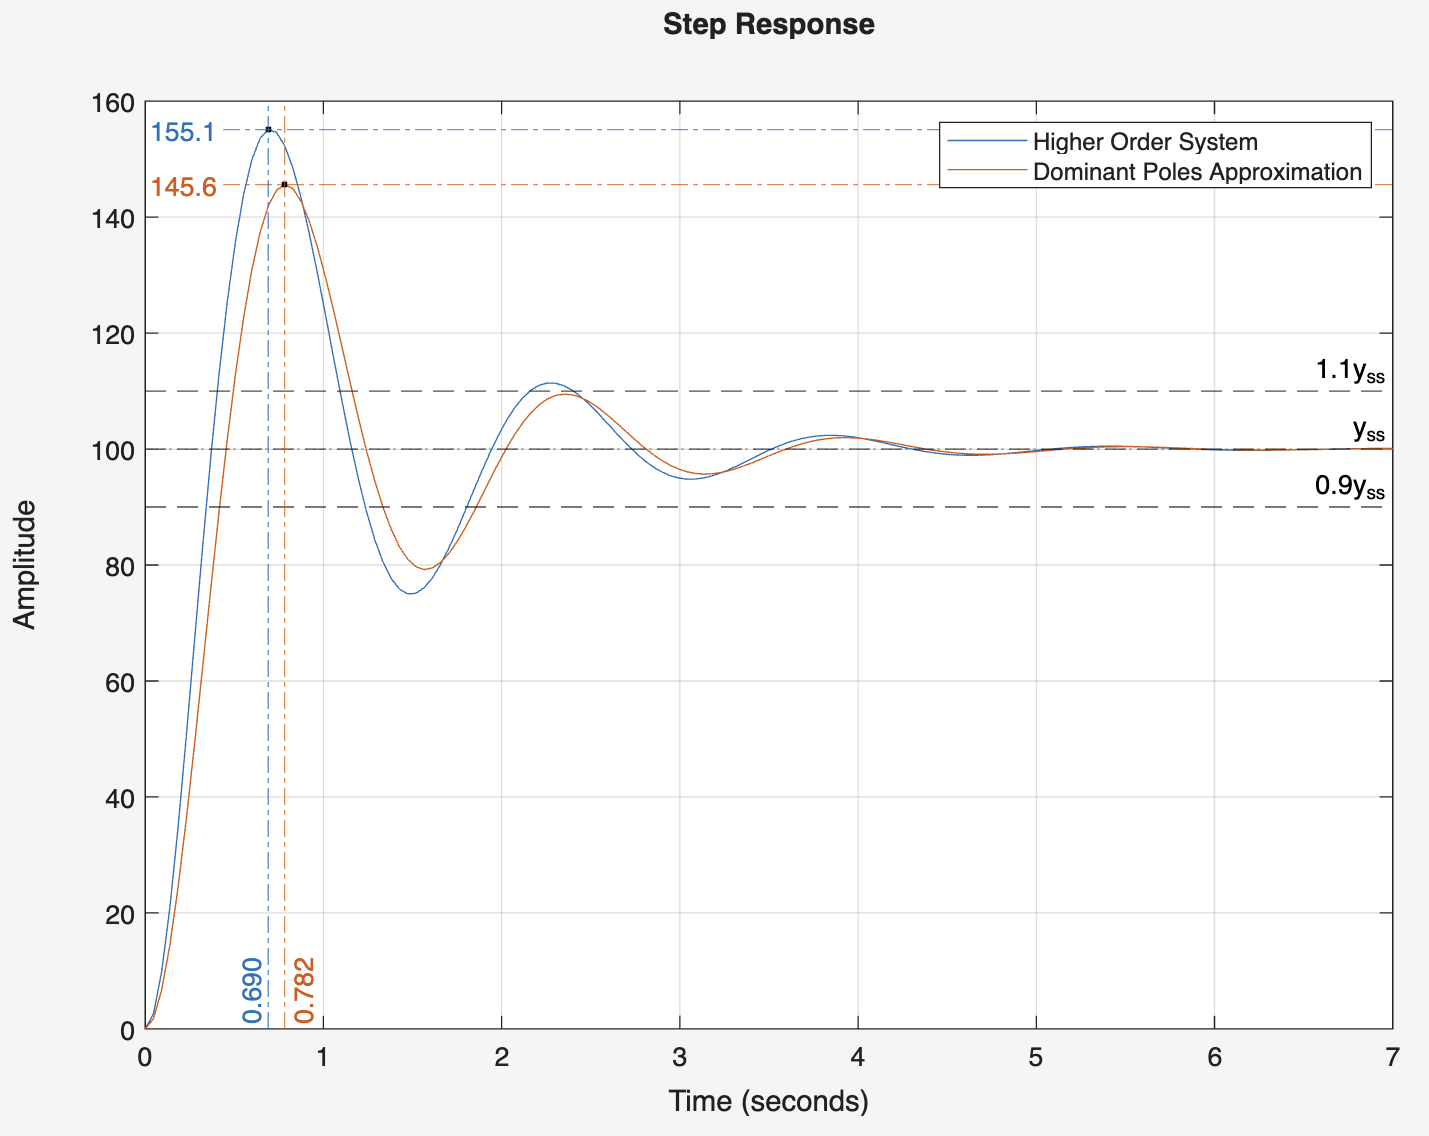
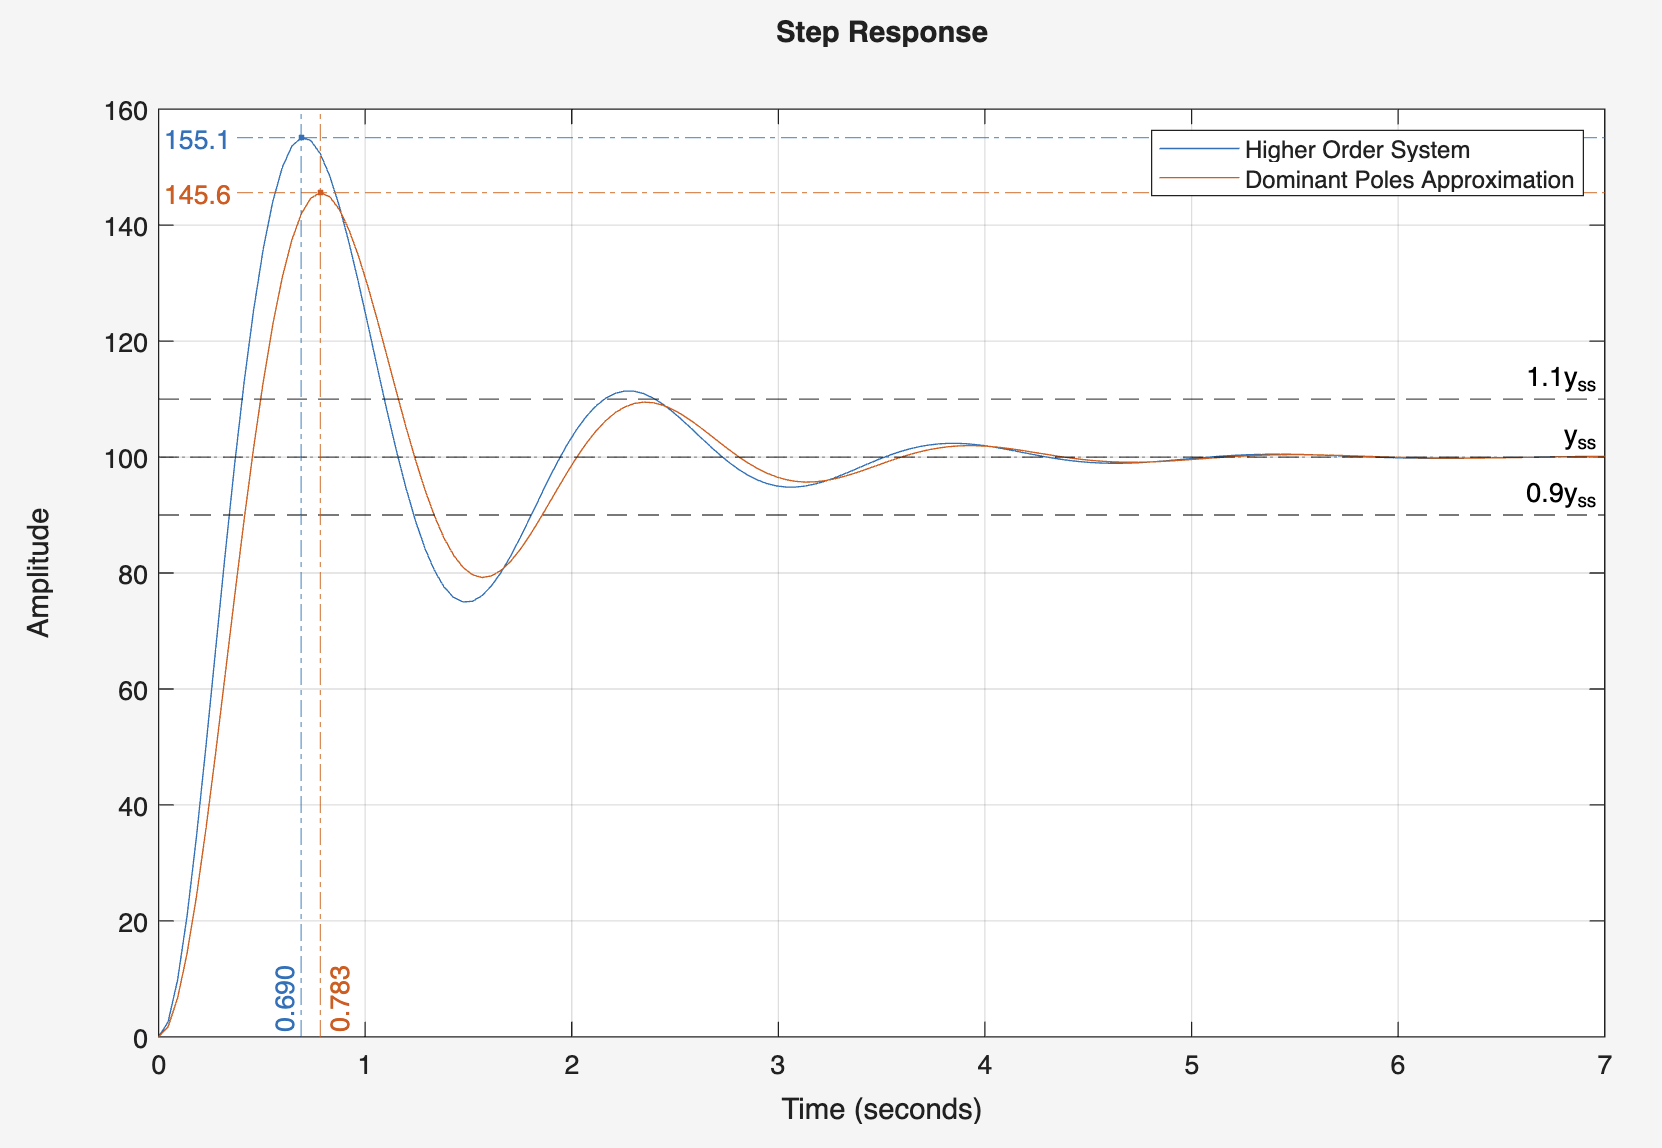
improved colors

diff --git a/test_transfer.m b/test_transfer.m
@@ -11,10 +11,10 @@ syms s
 % Set dominant poles (complex conjugate pair)
 DOMINANT_POLES = (s+1-4j) * (s+1+4j);
 % Add nondominant poles for higher-order transfer function
-HIGHER_ORDER_POLES = (s+7) * (s+5-9j) * (s+5+9j) ...
+HIGHER_ORDER_POLES = (s+10) * (s+7) * (s+5-9j) * (s+5+9j) ...
     * DOMINANT_POLES;
 % Add zeros into higher-order transfer function
-ZEROS = (s+5)*(s+6+8j)*(s+6-8j);
+ZEROS = (s+6+8j) * (s+6-8j) * (s+5);
 
 K = 1/DC_GAIN * (subs(expand(ZEROS), s, 0) / subs(expand(HIGHER_ORDER_POLES), s, 0));
 denominator1 = sym2poly(K * expand(HIGHER_ORDER_POLES));
@@ -42,10 +42,10 @@ function plot_step_response(n1, d1, n2, d2)
     legend('Higher Order System', 'Dominant Poles Approximation');
     hold;
     yss = n1(end) / d1(end);
-    yline([yss*0.9 yss yss*1.1], '--', {'0.9y_{ss}  ', 'y_{ss}  ', '1.1y_{ss}  '}, ...
+    yline([yss*0.9 yss yss*1.1], '--', {'0.9y_{ss}', 'y_{ss}', '1.1y_{ss}'}, ...
         'HandleVisibility', 'off', 'Color', '#000000');
-    [y1, t] = step(sys1);
-    [y2, ~] = step(sys2);
+    [y1, t1] = step(sys1);
+    [y2, t2] = step(sys2);
     [ymax1, tpeak1] = max(y1);
     [ymax2, tpeak2] = max(y2);
     yline(ymax1, 'LineStyle', '-.', 'HandleVisibility', 'off', 'Color', '#1171BE', ...
@@ -54,13 +54,14 @@ function plot_step_response(n1, d1, n2, d2)
     yline(ymax2, 'LineStyle', '-.', 'HandleVisibility', 'off', 'Color', '#DD5400', ...
         'Label', sprintf('%.1f', ymax2), ...
         'LabelHorizontalAlignment', 'left', 'LabelVerticalAlignment', 'middle');
-    xline(t(tpeak1), 'LineStyle', '-.', 'Color', '#1171BE', 'HandleVisibility', 'off', ...
-        'Label', sprintf('  %.3f', t(tpeak1)), ...
+    xline(t1(tpeak1), 'LineStyle', '-.', 'Color', '#1171BE', 'HandleVisibility', 'off', ...
+        'Label', sprintf('%.3f', t1(tpeak1)), ...
         'LabelHorizontalAlignment', 'left', 'LabelVerticalAlignment', 'bottom');
-    xline(t(tpeak2), 'LineStyle', '-.', 'Color', '#DD5400', 'HandleVisibility', 'off', ...
-        'Label', sprintf('  %.3f', t(tpeak2)), ...
+    xline(t2(tpeak2), 'LineStyle', '-.', 'Color', '#DD5400', 'HandleVisibility', 'off', ...
+        'Label', sprintf('%.3f', t2(tpeak2)), ...
         'LabelHorizontalAlignment', 'right', 'LabelVerticalAlignment', 'bottom');
-    plot([t(tpeak1); t(tpeak2)], [ymax1; ymax2], 'k.', 'HandleVisibility', 'off');
+    plot(t1(tpeak1), ymax1, 'Marker', '.', 'Color', '#1171BE', 'HandleVisibility', 'off');
+    plot(t2(tpeak2), ymax2, 'Marker', '.', 'Color', '#DD5400', 'HandleVisibility', 'off');
 end
 
 function plot_poles_zeros(n1, d1, d2)
@@ -84,7 +85,7 @@ function plot_poles_zeros(n1, d1, d2)
     ylim([-max_extent max_extent]);
     % Plot poles and zeros with appropriate markers
     hold on;
-    plot(real(zeros), imag(zeros), 'bo', 'MarkerSize', 8, 'LineWidth', 1);
+    plot(real(zeros), imag(zeros), 'bo', 'MarkerSize', 7, 'LineWidth', 1);
     plot(real(poles), imag(poles), 'bx', 'MarkerSize', 10, 'LineWidth', 1);
     plot(real(dominantpoles), imag(dominantpoles), 'rx', 'MarkerSize', 10, 'LineWidth', 1);
     legend('Poles', 'Zeros', 'Dominant Poles')

diff --git a/group_28.m b/group_28.m
@@ -23,8 +23,8 @@ function plot_step_response(n1, d1, n2, d2)
     yss = n1(end) / d1(end);
     yline([yss*0.9 yss yss*1.1], '--', {'0.9y_{ss}', 'y_{ss}', '1.1y_{ss}'}, ...
         'HandleVisibility', 'off', 'Color', '#000000');
-    [y1, t] = step(sys1);
-    [y2, ~] = step(sys2);
+    [y1, t1] = step(sys1);
+    [y2, t2] = step(sys2);
     [ymax1, tpeak1] = max(y1);
     [ymax2, tpeak2] = max(y2);
     yline(ymax1, 'LineStyle', '-.', 'HandleVisibility', 'off', 'Color', '#1171BE', ...
@@ -33,13 +33,14 @@ function plot_step_response(n1, d1, n2, d2)
     yline(ymax2, 'LineStyle', '-.', 'HandleVisibility', 'off', 'Color', '#DD5400', ...
         'Label', sprintf('%.1f', ymax2), ...
         'LabelHorizontalAlignment', 'left', 'LabelVerticalAlignment', 'middle');
-    xline(t(tpeak1), 'LineStyle', '-.', 'Color', '#1171BE', 'HandleVisibility', 'off', ...
-        'Label', sprintf('%.3f', t(tpeak1)), ...
+    xline(t1(tpeak1), 'LineStyle', '-.', 'Color', '#1171BE', 'HandleVisibility', 'off', ...
+        'Label', sprintf('%.3f', t1(tpeak1)), ...
         'LabelHorizontalAlignment', 'left', 'LabelVerticalAlignment', 'bottom');
-    xline(t(tpeak2), 'LineStyle', '-.', 'Color', '#DD5400', 'HandleVisibility', 'off', ...
-        'Label', sprintf('%.3f', t(tpeak2)), ...
+    xline(t2(tpeak2), 'LineStyle', '-.', 'Color', '#DD5400', 'HandleVisibility', 'off', ...
+        'Label', sprintf('%.3f', t2(tpeak2)), ...
         'LabelHorizontalAlignment', 'right', 'LabelVerticalAlignment', 'bottom');
-    plot([t(tpeak1); t(tpeak2)], [ymax1; ymax2], 'k.', 'HandleVisibility', 'off');
+    plot(t1(tpeak1), ymax1, 'Marker', '.', 'Color', '#1171BE', 'HandleVisibility', 'off');
+    plot(t2(tpeak2), ymax2, 'Marker', '.', 'Color', '#DD5400', 'HandleVisibility', 'off');
 end
 
 function plot_poles_zeros(n1, d1, d2)
@@ -63,9 +64,9 @@ function plot_poles_zeros(n1, d1, d2)
     ylim([-max_extent max_extent]);
     % Plot poles and zeros with appropriate markers
     hold on;
-    plot(real(zeros), imag(zeros), 'bo', 'MarkerSize', 8, 'LineWidth', 1);
-    plot(real(poles), imag(poles), 'bx', 'MarkerSize', 10, 'LineWidth', 1);
-    plot(real(dominantpoles), imag(dominantpoles), 'rx', 'MarkerSize', 10, 'LineWidth', 1);
+    plot(real(zeros), imag(zeros), 'bo', 'MarkerSize', 7, 'LineWidth', 1);
+    plot(real(poles), imag(poles), 'bx', 'MarkerSize', 9, 'LineWidth', 1);
+    plot(real(dominantpoles), imag(dominantpoles), 'rx', 'MarkerSize', 9, 'LineWidth', 1);
     legend('Poles', 'Zeros', 'Dominant Poles')
     % Add coordinate labels to all points
     poi = [zeros; poles];
